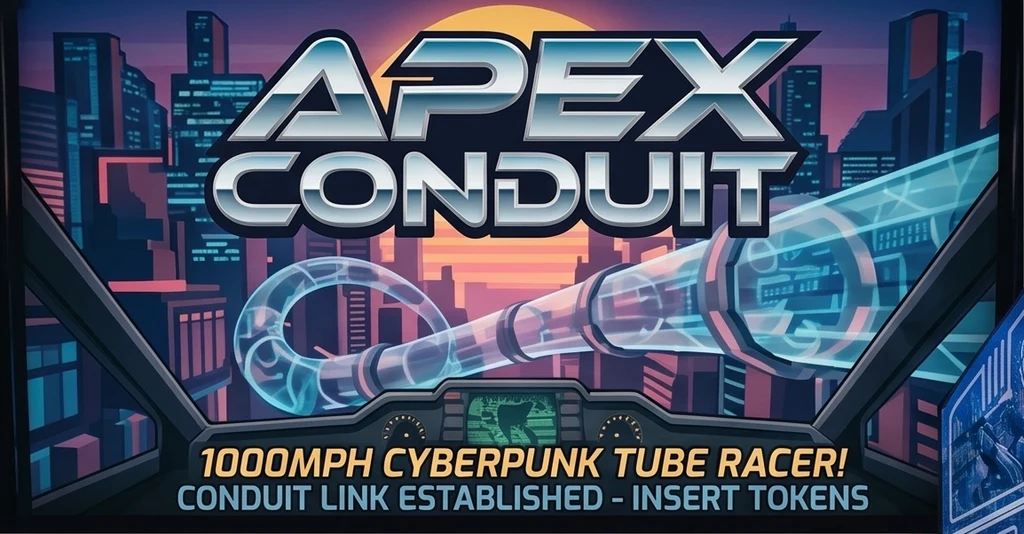
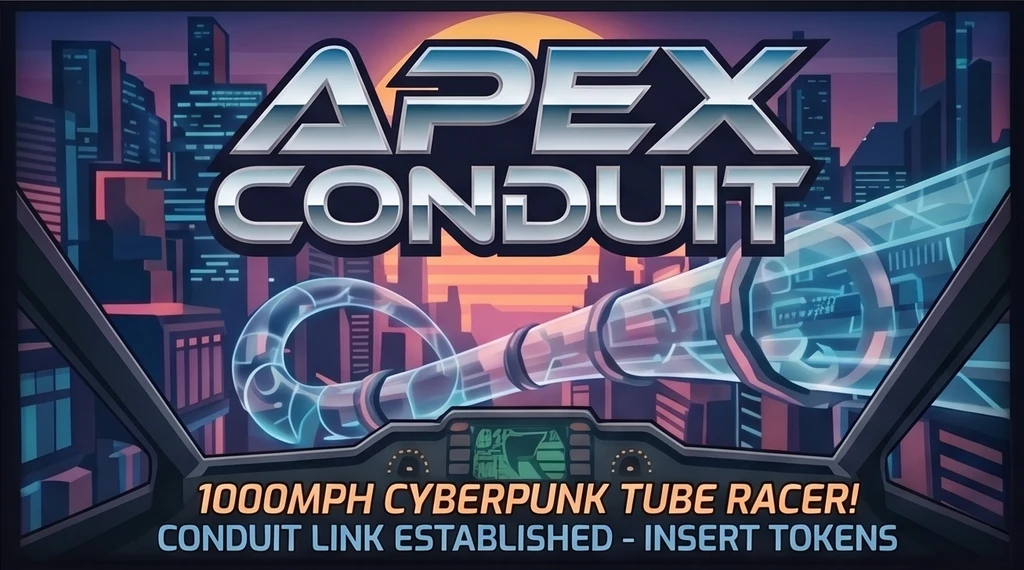
Arcade: the cabinets are dressed
Three filled sheets came back holding the layout, so all five panels of all
three cabinets are cut and installed: marquees, both flanks, control decks and
bezels.

Two things the generator did every time, now handled in the cut rather than by
asking it again:

A slot it did not fill. The control deck came back as a band of art centred in
the template's grey, and that grey would have been painted across the deck. Each
panel is trimmed back to its own artwork, and it says when it did that and what
the shape became — 2.33:1 asked for, 3.47:1 delivered, in that case.

A bezel's empty middle. A bezel is a frame, so the middle comes back as leftover
template grey — which is the generator understanding the brief, but it ends up
as a grey slab painted around the screen. The screen is geometry standing in
front of that panel, so the grey is turned black on the way in, which is what
belongs behind a screen.

diff --git a/apps/arcade/ART.md b/apps/arcade/ART.md
@@ -20,6 +20,15 @@ cutting them back out is arithmetic. `--dry-run` writes the cut panels and a con
 `shots/` so you can see whether it kept to the layout before anything is installed. If it wandered,
 say "keep every panel inside its box" and ask again, or fall back to one panel at a time.
 
+Two things it fixes up on the way through, because generators do them every time:
+
+- **A slot it did not fill.** Art drawn as a band centred in the template's grey would carry that
+  grey onto the cabinet, so each cut panel is trimmed back to its artwork. It says when it did that
+  and what the shape became.
+- **A bezel's empty middle.** A bezel is a frame, so the middle comes back as leftover template grey.
+  The screen is geometry sitting in front of it, so that grey is turned black — which is what should
+  be behind a screen.
+
 **One panel at a time.** Attach the single template for that face (`art-templates/side.png` and
 friends) with the same reference art, and install what comes back:
 
